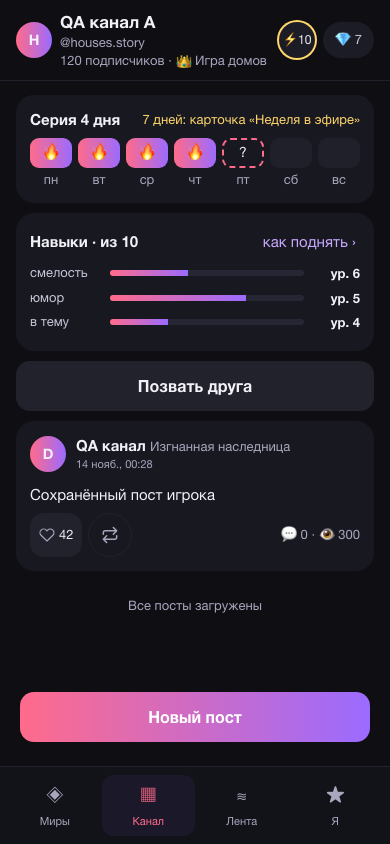
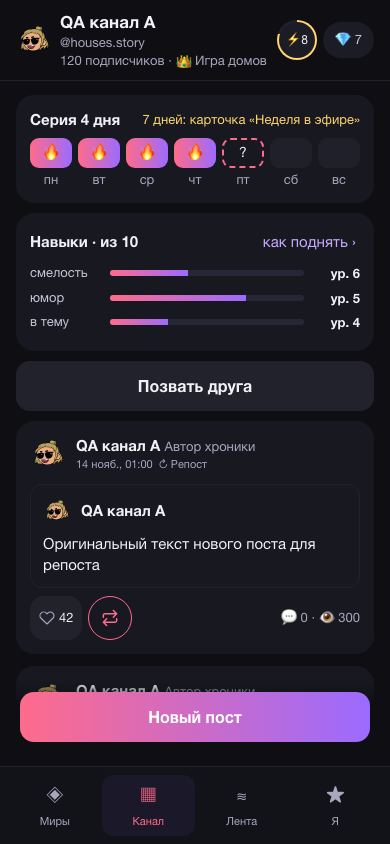
fix(frontend): unify repost identity and old-design card layout #205

diff --git a/frontend/src/screens/day.tsx b/frontend/src/screens/day.tsx
@@ -103,6 +103,7 @@ function StarCard() {
 function FeedPostCard({ item, onChanged, onLike, returnTo = 'feed' }: { item: FeedItem; onChanged: () => void; onLike: (post: PostDetailResponse) => void; returnTo?: string }) {
   const nav = useNav()
   const p = usePlayer()
+  const own = item.authorId === `Player_${p.id.replaceAll('-', '').toLowerCase()}`
   const open = item.postId ? () => nav.push('02-6_thread', { postId: item.postId, returnTo }) : undefined
   return (
     <Card style={{ marginBottom: 12, position: 'relative' }}>
@@ -113,16 +114,14 @@ function FeedPostCard({ item, onChanged, onLike, returnTo = 'feed' }: { item: Fe
         onKeyDown={open ? event => { if (event.target !== event.currentTarget) return; if (event.key === 'Enter' || event.key === ' ') { event.preventDefault(); open() } } : undefined}
         style={open ? { cursor: 'pointer' } : undefined}
       >
-        <div className="row"><Avatar seed={item.avatar!} world={item.world} size={36} mode={item.starId ? 'default' : 'profile'} /><div style={{ flex: 1, paddingRight: 24 }}><b>{item.author}</b>{item.starId && <span className="small" style={{ color: 'var(--accent)' }}> ★ звезда</span>} <span className="small muted">{item.role}</span><div className="tiny muted">{item.ago && postDate(item.ago)}{item.demo && ' · демо'}</div></div></div>
-        {item.repostId && <div className="small muted">↻ Репост</div>}
-        <div style={{ marginTop: 12 }}><ExpandableText text={item.text} /></div>
+        <div className="row"><Avatar seed={own ? p.handle : item.avatar} world={own ? p.world : item.world ?? p.world} size={36} mode={own ? 'profile' : 'default'} /><div style={{ flex: 1, paddingRight: 24 }}><b>{own ? p.name : item.author}</b>{item.authorId?.startsWith('Star_') && <span className="small" style={{ color: 'var(--accent)' }}> ★ звезда</span>} <span className="small muted">{item.role}</span><div className="tiny muted">{item.ago && postDate(item.ago)}{item.repostId && <span className="post-repost-label">↻ Репост</span>}{item.demo && ' · демо'}</div></div></div>
+        {item.text.trim() && <div style={{ marginTop: 12 }}><ExpandableText text={item.text} /></div>}
         <QuotedPost repostId={item.repostId} />
       </div>
       <div style={{ display: 'flex', alignItems: 'center', justifyContent: 'space-between', gap: 8, marginTop: 8 }}>
-          <div className="post-action-group">{item.postId && !item.demo && item.likes != null && item.likedBy && <PostLikeAction postId={item.postId} likes={item.likes} likedBy={item.likedBy} onSaved={onLike} />}{!item.demo && !item.repostId && item.postId && <RepostAction postId={item.postId} onChanged={onChanged} />}</div>
+          <div className="post-action-group">{item.postId && !item.demo && item.likes != null && item.likedBy && <PostLikeAction postId={item.postId} likes={item.likes} likedBy={item.likedBy} onSaved={onLike} />}{!item.demo && !item.repostId && item.postId && <RepostAction postId={item.postId} onChanged={onChanged} />}{returnTo === 'channel' && item.repostId && !item.text.trim() && item.postId && <RepostAction postId={item.postId} undoOnly onChanged={onChanged} />}</div>
           {item.commentCount != null && item.views != null && <span className="small muted" style={{ whiteSpace: 'nowrap' }}>💬 {item.commentCount} · 👁 {short(item.views)}</span>}
       </div>
-      {returnTo === 'channel' && item.repostId && !item.text.trim() && item.postId && <RepostAction postId={item.postId} undoOnly onChanged={onChanged} />}
     </Card>
   )
 }

diff --git a/frontend/src/ui/RepostAction.tsx b/frontend/src/ui/RepostAction.tsx
@@ -47,9 +47,9 @@ export function RepostAction({ postId, onChanged, undoOnly = false }: {
     finally { busy.current = false; setPending(false) }
   }
   return <>
-    <button type="button" className={undoOnly ? "text-button repost-action" : "post-repost-button"} aria-label={undoOnly ? undefined : "Репостнуть публикацию"} title={undoOnly ? undefined : "Репост"} disabled={pending} onClick={event => {
+    <button type="button" className="post-repost-button" aria-label={undoOnly ? "Убрать репост" : "Репостнуть публикацию"} aria-pressed={undoOnly ? true : undefined} title={undoOnly ? "Убрать репост" : "Репост"} disabled={pending} onClick={event => {
       event.stopPropagation(); undoOnly ? void remove() : setOpen(true)
-    }}>{undoOnly ? 'Убрать репост' : <svg width="20" height="20" viewBox="0 0 24 24" fill="none" stroke="currentColor" strokeWidth="1.8" strokeLinecap="round" strokeLinejoin="round" aria-hidden="true"><path d="m16 3 4 4-4 4M4 11V9a2 2 0 0 1 2-2h14M8 21l-4-4 4-4m12 0v2a2 2 0 0 1-2 2H4"/></svg>}</button>
+    }}><svg width="20" height="20" viewBox="0 0 24 24" fill="none" stroke="currentColor" strokeWidth="1.8" strokeLinecap="round" strokeLinejoin="round" aria-hidden="true"><path d="m16 3 4 4-4 4M4 11V9a2 2 0 0 1 2-2h14M8 21l-4-4 4-4m12 0v2a2 2 0 0 1-2 2H4"/></svg></button>
     {note && <div className="small muted" role="status">{note}</div>}
     {open && createPortal(<Sheet onClose={() => { if (!pending) setOpen(false) }}>
       <div ref={dialog} role="dialog" aria-modal="true" aria-labelledby={titleId}>

diff --git a/frontend/src/ui/QuotedPost.tsx b/frontend/src/ui/QuotedPost.tsx
@@ -25,7 +25,7 @@ export function QuotedPost({ repostId }: { repostId?: string | null }) {
   const own = source?.authorId === `Player_${player.id.replaceAll('-', '').toLowerCase()}`
   return <div className="quoted-post" onClick={event => event.stopPropagation()}>
     {source ? <button type="button" className="quote-source" onClick={() => nav.push('02-6_thread', { postId: repostId })}>
-      <span className="row"><Avatar seed={own ? player.handle : author?.avatarSeed ?? ''} mode={own ? 'profile' : 'default'} size={28} /><b>{own ? player.name : author?.name ?? 'Автор'}</b></span>
+      <span className="row"><Avatar seed={own ? player.handle : author?.avatarSeed ?? ''} world={player.world} mode={own ? 'profile' : 'default'} size={28} /><b>{own ? player.name : author?.name ?? 'Автор'}</b></span>
       <span className="quoted-post-text">{source.text}</span>
     </button> : <span className="muted" role="status">{error === 'missing' ? 'Пост недоступен' : error === 'failed' ? 'Не удалось загрузить оригинал' : 'Загружаем оригинал…'}</span>}
     {error === 'failed' && <button className="text-button repost-action" onClick={() => setAttempt(value => value + 1)}>Повторить</button>}

diff --git a/frontend/src/theme.css b/frontend/src/theme.css
@@ -463,3 +463,7 @@ summary:focus-visible { outline: 2px solid var(--lilac); outline-offset: 4px; bo
 .post-repost-button { display:inline-flex; align-items:center; justify-content:center; flex-shrink:0; width:44px; height:44px; padding:10px; border:1px solid var(--line); border-radius:50%; background:transparent; color:var(--muted); cursor:pointer; }
 .post-repost-button:hover { color:var(--accent); border-color:var(--accent); }
 .post-repost-button:disabled { opacity:.5; cursor:default; }
+
+.post-repost-label { margin-left: 6px; white-space: nowrap; }
+
+.post-repost-button[aria-pressed="true"] { color: var(--accent); border-color: var(--accent); }
